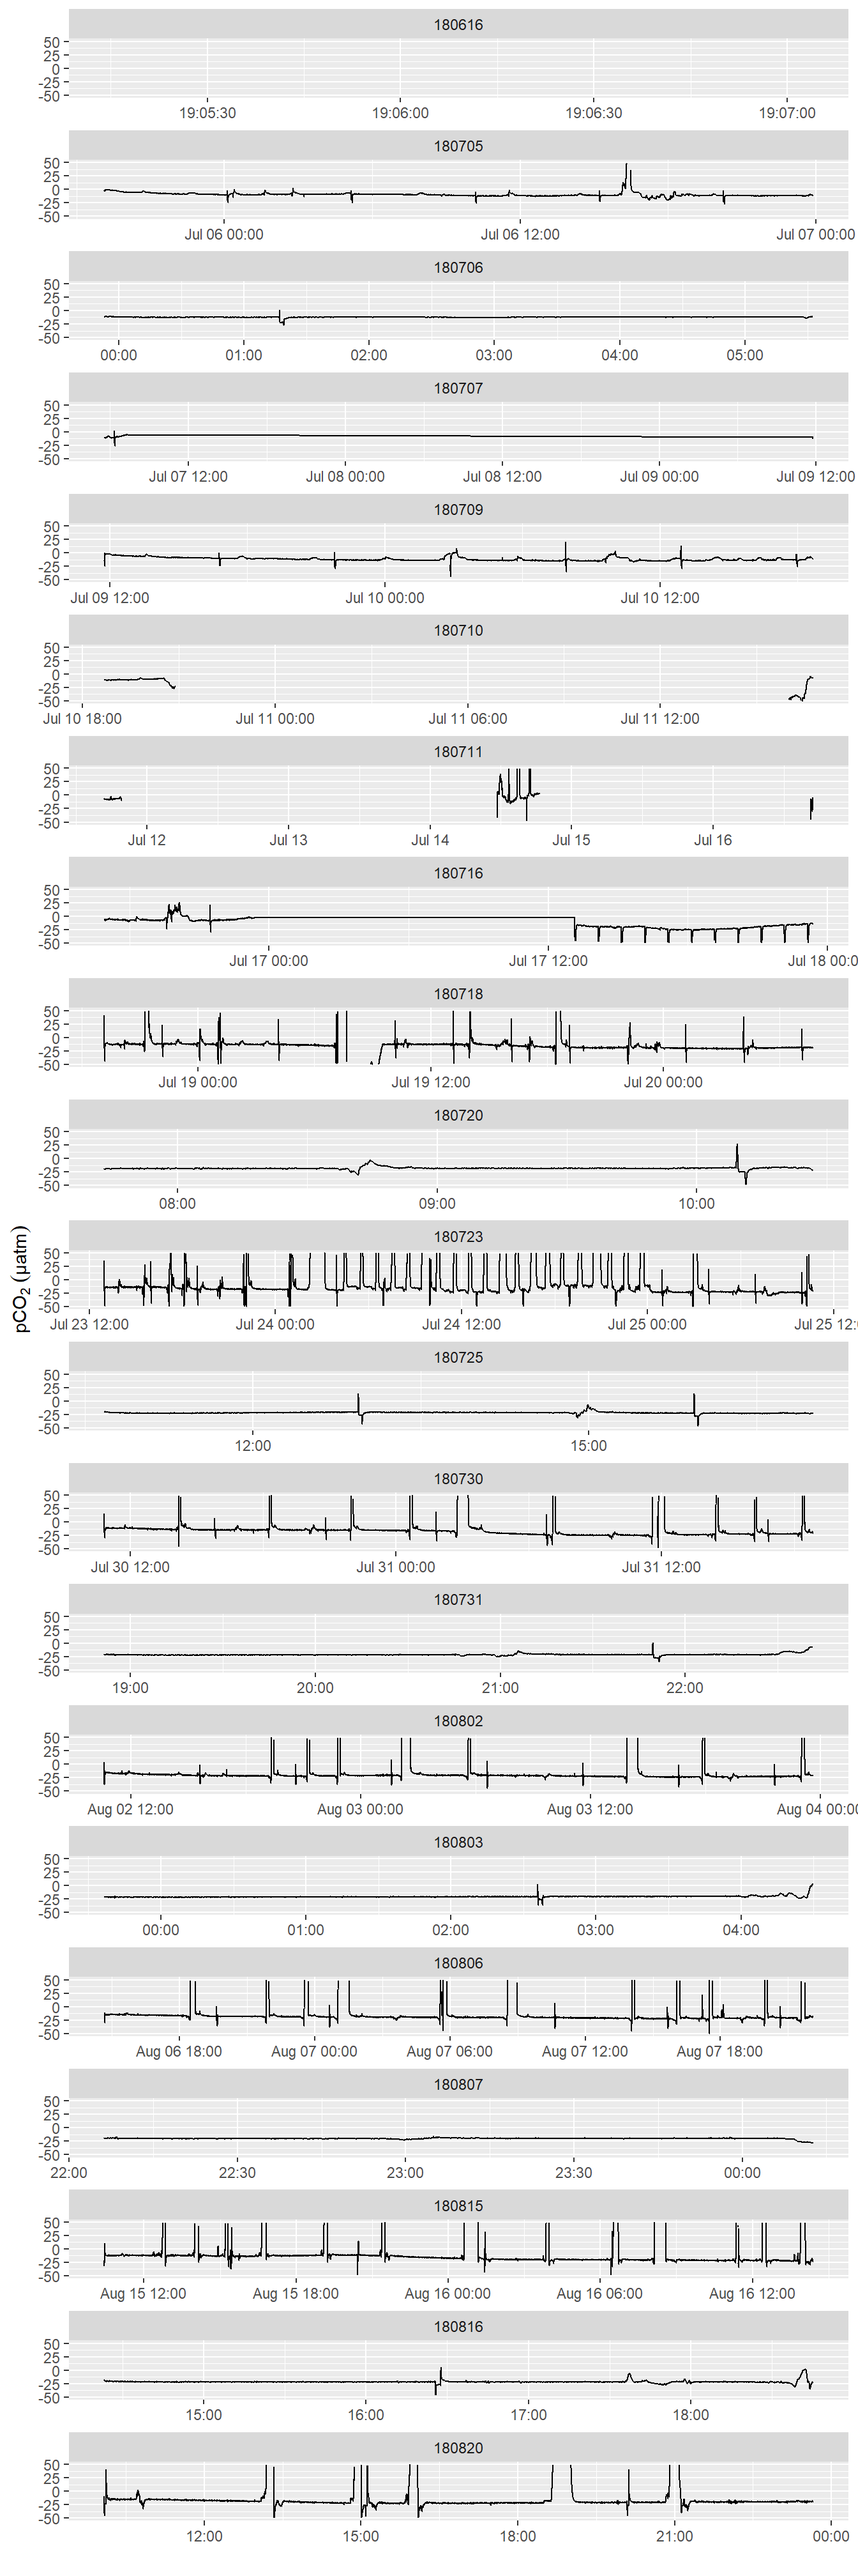
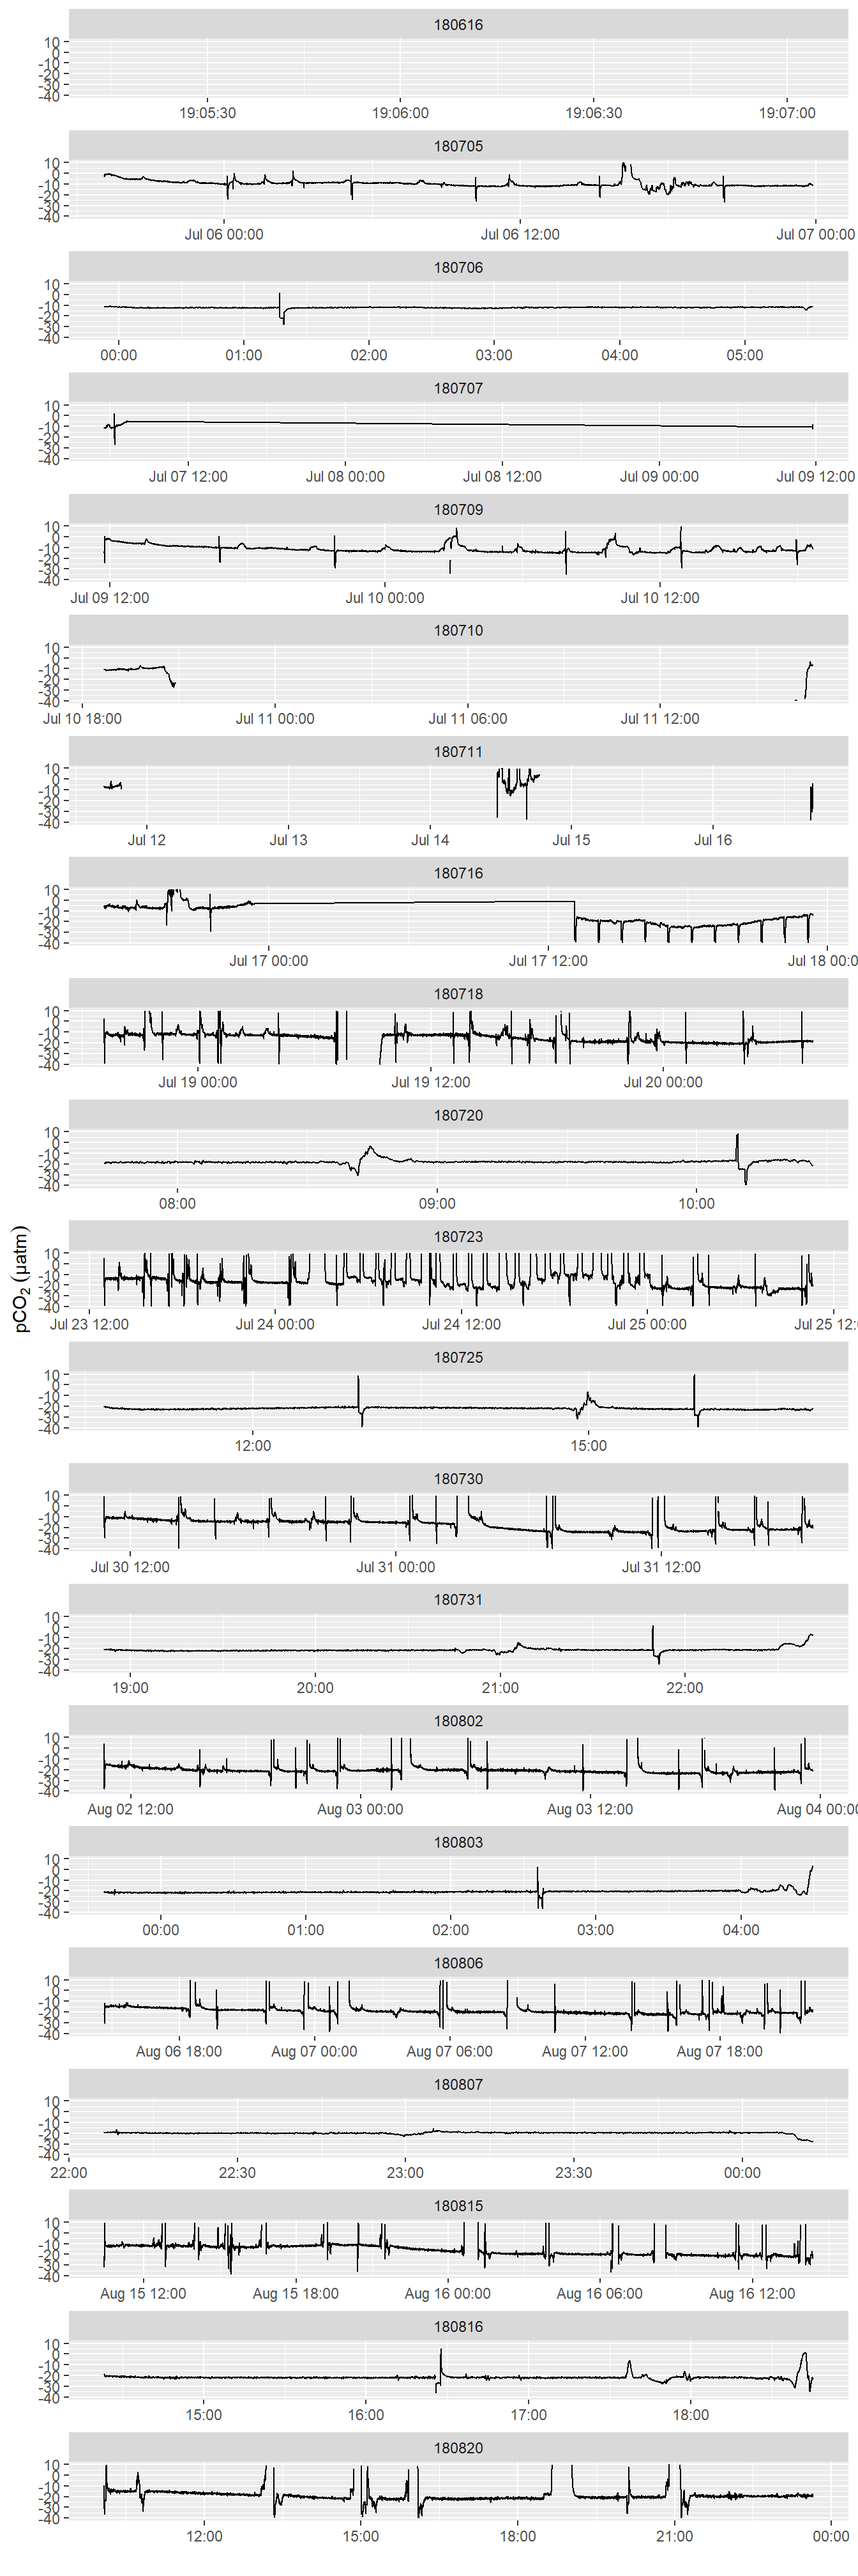
Build site.

diff --git a/docs/merging_interpolation.html b/docs/merging_interpolation.html
@@ -558,16 +558,16 @@ This reproducible <a href="http://rmarkdown.rstudio.com">R Markdown</a> analysis
 <div class="panel panel-default">
 <div class="panel-heading">
 <p class="panel-title">
-<a data-toggle="collapse" data-parent="#workflowr-checks" href="#strongRepositoryversionstrongahrefhttpsgithubcomjensdanielmuellerBloomSailtree70bd3f004df3d6988da9ea08d99279e856556697targetblank70bd3f0a"> <span class="glyphicon glyphicon-ok text-success" aria-hidden="true"></span> <strong>Repository version:</strong> <a href="https://github.com/jens-daniel-mueller/BloomSail/tree/70bd3f004df3d6988da9ea08d99279e856556697" target="_blank">70bd3f0</a> </a>
+<a data-toggle="collapse" data-parent="#workflowr-checks" href="#strongRepositoryversionstrongahrefhttpsgithubcomjensdanielmuellerBloomSailtree52090bfe01f53d7e9694f96fb05c6a3e6eb0f4datargetblank52090bfa"> <span class="glyphicon glyphicon-ok text-success" aria-hidden="true"></span> <strong>Repository version:</strong> <a href="https://github.com/jens-daniel-mueller/BloomSail/tree/52090bfe01f53d7e9694f96fb05c6a3e6eb0f4da" target="_blank">52090bf</a> </a>
 </p>
 </div>
[2 lines of base64/hex data omitted]
 <div class="panel-body">
 <p>
 Great! You are using Git for version control. Tracking code development and connecting the code version to the results is critical for reproducibility.
 </p>
 <p>
-The results in this page were generated with repository version <a href="https://github.com/jens-daniel-mueller/BloomSail/tree/70bd3f004df3d6988da9ea08d99279e856556697" target="_blank">70bd3f0</a>. See the <em>Past versions</em> tab to see a history of the changes made to the R Markdown and HTML files.
+The results in this page were generated with repository version <a href="https://github.com/jens-daniel-mueller/BloomSail/tree/52090bfe01f53d7e9694f96fb05c6a3e6eb0f4da" target="_blank">52090bf</a>. See the <em>Past versions</em> tab to see a history of the changes made to the R Markdown and HTML files.
 </p>
 <p>
 Note that you need to be careful to ensure that all relevant files for the analysis have been committed to Git prior to generating the results (you can use <code>wflow_publish</code> or <code>wflow_git_commit</code>). workflowr only checks the R Markdown file, but you know if there are other scripts or data files that it depends on. Below is the status of the Git repository when the results were generated:
@@ -622,6 +622,40 @@ Message
 </tr>
 </thead>
 <tbody>
+<tr>
+<td>
+Rmd
+</td>
+<td>
+<a href="https://github.com/jens-daniel-mueller/BloomSail/blob/52090bfe01f53d7e9694f96fb05c6a3e6eb0f4da/analysis/merging_interpolation.Rmd" target="_blank">52090bf</a>
+</td>
+<td>
+jens-daniel-mueller
+</td>
+<td>
+2020-04-29
+</td>
+<td>
+correct interpolation, new d pco2 plot range
+</td>
+</tr>
+<tr>
+<td>
+html
+</td>
+<td>
+<a href="https://rawcdn.githack.com/jens-daniel-mueller/BloomSail/d9248a6fc7f14ae3d8a22cf33c99c75e0c08baaf/docs/merging_interpolation.html" target="_blank">d9248a6</a>
+</td>
+<td>
+jens-daniel-mueller
+</td>
+<td>
+2020-04-29
+</td>
+<td>
+Build site.
+</td>
+</tr>
 <tr>
 <td>
 Rmd
@@ -1445,7 +1479,7 @@ pCO<sub>2</sub> record after interpolation to HydroC timestamp (analog output fr
   filter(!is.na(pCO2_corr)) %&gt;% 
   ggplot()+
   geom_path(aes(date_time, pCO2_corr - pCO2_analog))+
-  ylim(-50, 50)+
+  ylim(-40, 10)+
   labs(y=expression(pCO[2]~(µatm)), x=&quot;&quot;)+
   facet_wrap(~ID, scales = &quot;free_x&quot;, ncol = 1)</code></pre>
 <div class="figure" style="text-align: center">
